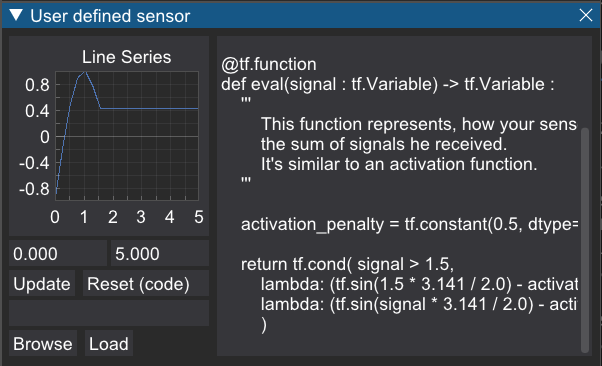
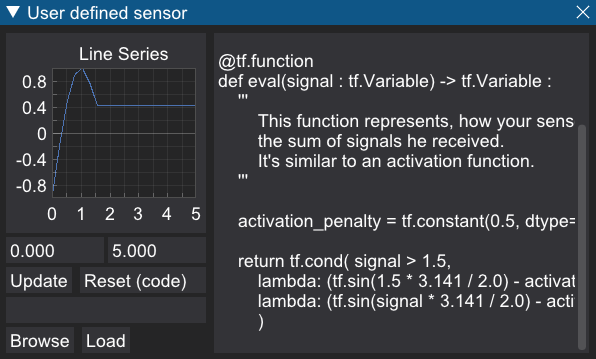
added segment map and update README

diff --git a/src/gui/windows/user_defined_collisions.py b/src/gui/windows/user_defined_collisions.py
@@ -3,6 +3,7 @@ import tensorflow as tf
 import matplotlib.pyplot as plt
 from threading import Thread
 import cv2
+import numpy as np
 
 from gui.configuration import GuiConfig
 from gui.dpg_utils import DpgUtils
@@ -21,30 +22,29 @@ class WindowUserDefinedCollisions:
     def load_collision_map(self):
         path = dpg.get_value("input_text_collision_map")
         
-        input_types = [MapType.GRID]
-        input_type = input_types[
-            int(dpg.get_value("collision_input_radio"))]
+        input_type = MapType.from_string(
+            dpg.get_value("collision_input_radio"))
+        storage_type = MapType.from_string(
+            dpg.get_value("collision_storage_radio"))
 
-        storage_types = [MapType.SEGMENTS]
-        storage_type = storage_types[
-            int(dpg.get_value("collision_storage_radio"))]
-
+        data = None
         match (input_type) :
             case MapType.GRID :
                 data = cv2.imread(path)
                 
-                if data is None:
-                    DpgUtils.show_info('Unreadable image', 'Warning')
-                    return
-                else :
-                    self.config.collision_map = CollisionMap(
-                        data, input_type, storage_type)
-                    dpg.set_value("collision_texture_tag", self.get_texture())
-                    return
-            case MapType.SEGMENTS :
-                raise NotImplementedError() # TODO
+            case MapType.SEGMENTS : # shape = (n, 2, 2)
+                data = np.loadtxt(path).reshape(-1, 2, 2)
+
             case _ :
                 raise NotImplementedError()
+            
+        if data is None:
+            DpgUtils.show_info('Unreadable image', 'Warning')
+        else :
+            self.config.collision_map = CollisionMap(
+                data, input_type, storage_type)
+            
+        dpg.set_value("collision_texture_tag", self.get_texture())
         
 
     def remove_collision_map(self):
@@ -61,7 +61,6 @@ class WindowUserDefinedCollisions:
             case MapType.SEGMENTS :
                 image = DpgUtils.draw_segments_on_image(
                     self.config.collision_map.data, TEXTURE_SIZE)
-                print(image.shape)
                 return DpgUtils.np_image_to_dpg_texture(image)
             
             case _ :
@@ -78,10 +77,10 @@ class WindowUserDefinedCollisions:
         
         def input_radio():
             dpg.add_text("Input data type :")
-            dpg.add_radio_button(tag="collision_input_radio", items=['Grid'], default_value=0)
+            dpg.add_radio_button(tag="collision_input_radio", items=['Grid', 'Segments'], default_value='Grid')
         def storage_radio():
             dpg.add_text("Algorithmic data type : ")
-            dpg.add_radio_button(tag="collision_storage_radio", items=['Segments'], default_value=0)
+            dpg.add_radio_button(tag="collision_storage_radio", items=['Segments'], default_value='Segments')
 
         with dpg.group(horizontal=True) :
             with dpg.group(horizontal=False):

diff --git a/src/gui/windows/user_defined_density.py b/src/gui/windows/user_defined_density.py
@@ -22,13 +22,11 @@ class WindowUserDefinedDensity:
     def load_density_map(self):
         path = dpg.get_value("input_text_density_map")
         
-        input_types = [MapType.GRID]
-        input_type = input_types[
-            int(dpg.get_value("density_input_radio"))]
+        input_type = MapType.from_string(
+            dpg.get_value("density_input_radio"))
+        storage_type = MapType.from_string(
+            dpg.get_value("density_storage_radio"))
 
-        storage_types = [MapType.GRID]
-        storage_type = storage_types[
-            int(dpg.get_value("density_storage_radio"))]
 
         data = cv2.imread(path)
         if data is not None:
@@ -47,11 +45,11 @@ class WindowUserDefinedDensity:
     def input_radio(self):
         dpg.add_text("Input data type :")
         dpg.add_radio_button(tag="density_input_radio", 
-                             items=['Grid'], default_value=0)
+                             items=['Grid'], default_value='Grid')
     def storage_radio(self):
         dpg.add_text("Algorithmic data type : ")
         dpg.add_radio_button(tag="density_storage_radio", 
-                             items=['Grid'], default_value=0)
+                             items=['Grid'], default_value='Grid')
 
     def get_texture(self) :
         if self.config.density_map is None :

diff --git a/src/gui/configuration.py b/src/gui/configuration.py
@@ -34,15 +34,15 @@ class GuiConfig:
         return namespace["eval"]
 
     def __init__(self, update_callback : Callable = None) -> None:
-        self.n_iteration : int = 400
+        self.n_iteration : int = 200
         self.learning_step : float = 1.0
 
-        self.n_emitters : int = 20
+        self.n_emitters : int = 15
         self.density_map : Optional[DensityMap] = None
         self.collision_map : Optional[CollisionMap] = None
 
         self.map_scale = [100.0, 100.0] # unit x unit
-        self.grid_size = [20, 20]
+        self.grid_size = [32, 32]
  
         self.emitter_function = GuiConfig.load_function(
             GuiConfig.load_file(GuiConfig.DEFAULT_EMITTER_FUNCTION))

diff --git a/src/engine/map_type.py b/src/engine/map_type.py
@@ -7,3 +7,12 @@ class MapType(Enum):
     GRID = 0,
     SEGMENTS = 1
     FUNCTION = 2
+
+    @classmethod
+    def from_string(cls, map_type_str):
+        match (map_type_str.upper()):
+            case 'GRID': return cls.GRID
+            case 'SEGMENT' | 'SEGMENTS': return cls.SEGMENTS
+            case 'FUNCTION': return cls.FUNCTION
+            case _ :
+                return ValueError("Invalid MapType string {}".format(map_type_str))

diff --git a/src/engine/collision_map.py b/src/engine/collision_map.py
@@ -23,6 +23,8 @@ class CollisionMap:
         match(data_format, storage_type) :
             case MapType.GRID, MapType.SEGMENTS:
                 self.data = self.grid_to_segment(data)
+            case MapType.SEGMENTS, MapType.SEGMENTS:
+                self.data = data
             case _  :
                 raise NotImplementedError()
             

diff --git a/README.md b/README.md
@@ -41,14 +41,16 @@ Optimizing signal coverage with emitters on a map involves maximizing a function
 You can try to optimize emitters using the following density map and colliders map.
 - ![](resources/map/value_001.png) : ``resources/map/value_001.png``
 - ![](resources/map/collide_001.png) : ``resources/map/collide_001.png``
-    - Using collision has an higher cost than just density, try without first.
+    - Image $\to$ segments might make too much segments. \
+    Use the approximation ``resources/map/collide_001.numpy``
+    - Note that solving wihout using colliders might be sufficient.
 
 - ### Adjust the parameters
-    - <img src="resources/demo/interface.png">
-    - For instance, you can modify the gain function
-        - <img src="resources/demo/user_defined_sensor.png" width=300>
+    - <img src="resources/demo/interface_002.png" width=500>
+    - For instance, you can modify the sensor/emitter function
+        - <img src="resources/demo/user_defined_sensor.png" width=300> <img src="resources/demo/user_defined_emitter.png" width=300>
 - ### Update the parameters and start the solver
-    - Result after few iterations : </br> <img src=resources/demo/render.png width=300>
+    - Before/After solving. : </br> <img src=resources/demo/render_000.png width=300> <img src=resources/demo/render_199.png width=300>
 
 
 ## Setup
@@ -79,13 +81,14 @@ python3 src/main.py # second method
 - User defined sensors activation function $\psi$
 - User defined density map $\mu$
 - User defined collision map $C$
+    - As a grayscale map (that will be converted to segment)
+    - As a numpy array of relatives positions.
 - Save emitters positions
 
 ## Future Development
 - Features
-    - Collision Map
-        - Represented as a string of segments.
-    - Optional optimizer
+    - Optional optimizer (After multiples tests, we currently use Nadam by default)
+        - <img src="resources/demo/optimizer.png" width=300>
     - Finding the optimal number of sensors
 - Misc
     - For a large number of emitters on a high-dimensional map, we can consider the following approximations of $\mathcal G$.
@@ -99,4 +102,8 @@ python3 src/main.py # second method
             - $\psi \approx l_2$, a piecewise linear function.
             - $\mu \approx \int l_3 \, d\lambda_2$, where $\lambda_2$ is Lebesgue's measure over $\mathbb{R}^2$.
             - $\mathcal{G}_P \approx \int_E l_1 \circ (\sum_y l_2(\text{dist}(\cdot, y)) \times \text{pass}_C(\cdot, y)) \, l_3 \, d\lambda_2$.
+    - Manifold distance.
+        - If the map $E$ is a chart over a manifold, we might want to use the distance over the manifold surface.
+        - Example :
+            - If we want to place emitters over Earth's continents. Our grid will be a chart  over the manifold $S^2$ and the distance will not be the euclidean distance.
     - Use a "compilation" optimizer for Python.
